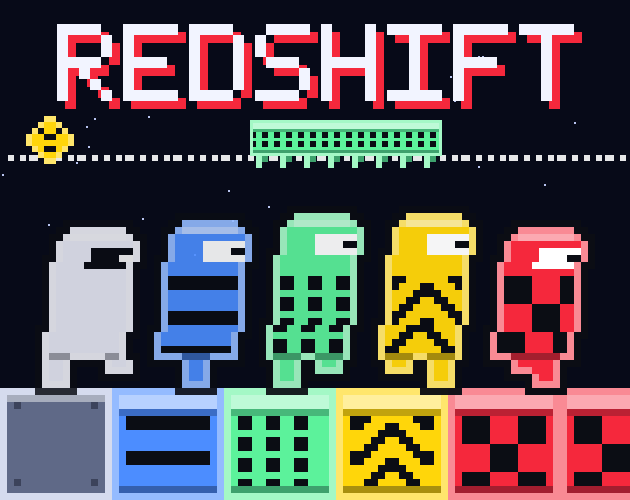
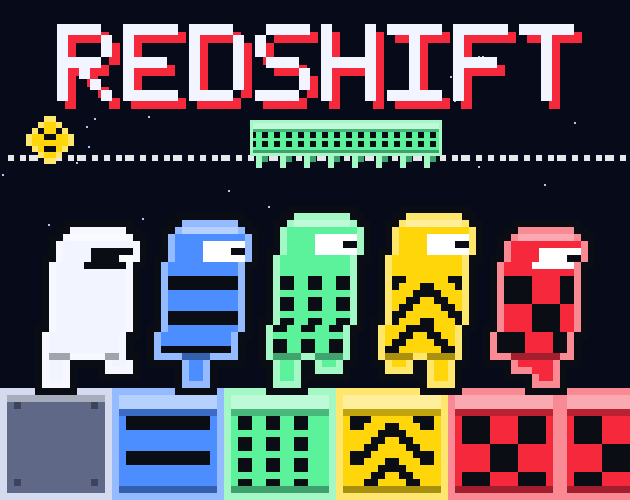
docs: cover A finalised as the itch cover (runners at full opacity); owner's choice

Changed region(s): [[0.0603, 0.45, 0.2413, 0.81], [0.3016, 0.48, 0.3921, 0.54]]

diff --git a/docs/art/itch/README.md b/docs/art/itch/README.md
@@ -67,7 +67,7 @@ After a sprite, palette or font change, re-run it and re-check. `cover-630x500.p
 | `banner-960x240.png` | 960x240 | Page header banner: title, tagline, five runners on their blocks. itch-page.md gives no banner size; 960x240 as briefed. |
 | `background-tile.png` | 256x256 | Seamless page background, **repeat both ways**. Stars are whole 2x2/2x4 squares kept clear of the edges, so it cannot show a seam. Brightest star is #38456E: text contrast is unaffected. |
 
-Why A is the default: at 158x125 the title and five distinct runner silhouettes on five distinct block patterns still read, it states the theme (pace sets colour) in one glance, and it carries a moving platform and a bolt. B loses the small elements at 158 wide; C's idea (sweep, hollow blocks) is strong but the left third is a dim hatch and the runner is one small figure.
+A is the owner's choice (2026-11-25); runners at full opacity. Why A is the default: at 158x125 the title and five distinct runner silhouettes on five distinct block patterns still read, it states the theme (pace sets colour) in one glance, and it carries a moving platform and a bolt. B loses the small elements at 158 wide; C's idea (sweep, hollow blocks) is strong but the left third is a dim hatch and the runner is one small figure.
 
 Pattern check: every gear colour keeps its pattern in all four images (white plain, blue stripes, green dots, yellow chevrons, red checker; ghost blocks keep the pattern and a dashed outline).
 
